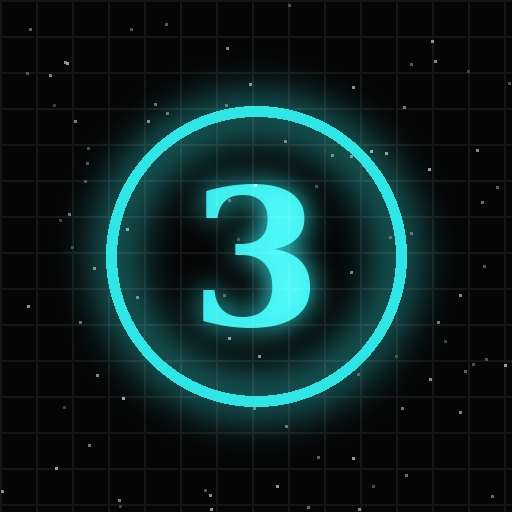
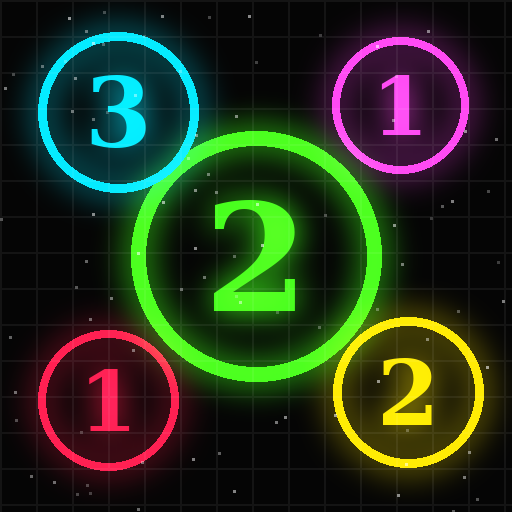
Add files via upload

diff --git a/index.html b/index.html
@@ -55,8 +55,8 @@
     font-size:17px; background:#000;
   }
   #right-area { text-align:right; display:flex; flex-direction:column; gap:8px; align-items:flex-end; }
-  #menu-btn { cursor:pointer; }
-  #menu-btn:active { color:#fff; }
+  #menu-btn, #music-btn { cursor:pointer; }
+  #menu-btn:active, #music-btn:active { color:#fff; }
 
   /* 발사대 (하단 중앙) */
   #launcher {
@@ -113,6 +113,7 @@
     <div id="launcher"><div class="q-ball" id="launcher-ball"></div></div>
     <div id="right-area">
       <div id="record-label">RECORD&nbsp;&nbsp;0</div>
+      <div id="music-btn">&#9834;&nbsp;OFF</div>
       <div id="menu-btn">BACK&nbsp;TO&nbsp;MENU</div>
     </div>
   </div>
@@ -121,11 +122,7 @@
 <div id="overlay">
   <h1 id="overlay-title">JUST&nbsp;POP&nbsp;IT</h1>
   <div class="stats" id="overlay-stats" style="display:none"></div>
-  <div class="hint" id="overlay-hint">
-    터치한 채로 방향을 잡고 손을 떼면 공이 발사됩니다.<br>
-    같은 색끼리 부딪히면 숫자가 줄고, 0이 되면 터집니다.<br>
-    어떤 공이든 아래 라인에 닿으면 게임 오버!
-  </div>
+  <div class="hint" id="overlay-hint" style="display:none"></div>
   <button id="start-btn">START</button>
 </div>
 
@@ -140,7 +137,7 @@ if('serviceWorker' in navigator){
 <script>
 (function(){
   // ───────── 기본 설정 ─────────
-  const COLORS = ['#2ee6e6','#ff4040','#ffd23b','#46ff7d','#c84bff','#ff8c3b','#ff4bd0','#5a9bff'];
+  const COLORS = ['#00e5ff','#39ff14','#ffe600','#ff9100','#ff1744','#ff3df0','#2979ff','#ececec'];
   const BALL_START_NUM = 3;
   const DECEL = 0.075;             // 선형 감속: 일정하게 미끄러지다 딱 멈춤 (당구 느낌)
   const STOP_SPEED = 0.05;
@@ -157,6 +154,7 @@ if('serviceWorker' in navigator){
   const launcherBallEl = document.getElementById('launcher-ball');
   const recordLabel = document.getElementById('record-label');
   const menuBtn = document.getElementById('menu-btn');
+  const musicBtn = document.getElementById('music-btn');
   const overlay = document.getElementById('overlay');
   const overlayTitle = document.getElementById('overlay-title');
   const overlayStats = document.getElementById('overlay-stats');
@@ -209,19 +207,115 @@ if('serviceWorker' in navigator){
 
   // ───────── 사운드 ─────────
   let audioCtx=null;
+  let sfxOn=true;      // ♪ 버튼으로 음악과 함께 꺼짐
+  const SFX_VOL=0.4;   // 효과음 전체 볼륨 (배경음악이 잘 들리도록 낮춤)
   function sound(freq, dur, type, vol){
+    if(!sfxOn) return;
     try{
       if(!audioCtx) audioCtx = new (window.AudioContext||window.webkitAudioContext)();
       const o=audioCtx.createOscillator(), g=audioCtx.createGain();
       o.type=type||'sine';
       o.frequency.setValueAtTime(freq, audioCtx.currentTime);
       o.frequency.exponentialRampToValueAtTime(Math.max(60,freq*0.4), audioCtx.currentTime+dur);
-      g.gain.setValueAtTime(vol||0.15, audioCtx.currentTime);
+      g.gain.setValueAtTime((vol||0.15)*SFX_VOL, audioCtx.currentTime);
       g.gain.exponentialRampToValueAtTime(0.001, audioCtx.currentTime+dur);
       o.connect(g); g.connect(audioCtx.destination);
       o.start(); o.stop(audioCtx.currentTime+dur+0.02);
     }catch(e){}
   }
+
+  // ───────── 배경음악: Gymnopédie No.1 (Erik Satie, 1888 — 저작권 소멸) 로파이 편곡 ─────────
+  // 3/4박. 베이스(1박) + 떠 있는 코드(2-3박)가 두 화음으로 교차하고, 그 위에 멜로디가 흐름.
+  const bgm=(function(){
+    let ac=null, master=null, timer=null, nextBar=0, barIdx=0, on=false;
+    const BPM=64, BEAT=60/BPM, BAR=3*BEAT;
+    // 반주: G화음 마디와 D화음 마디가 교대로 흔들림
+    const accA={bass:43, ch:[59,62,66]};   // G + (B D F#)
+    const accB={bass:38, ch:[57,61,66]};   // D + (A C# F#)
+    // 멜로디 (12마디 루프): [박자, 음, 길이(박)]
+    const REST=[];
+    const mel=[
+      REST, REST,
+      [[0,78,1],[1,81,1],[2,79,1]],
+      [[0,78,1],[1,73,1],[2,71,1]],
+      [[0,73,1],[1,74,1],[2,69,1]],
+      [[0,66,3]],
+      [[0,78,1],[1,81,1],[2,79,1]],
+      [[0,78,1],[1,73,1],[2,71,1]],
+      [[0,73,1],[1,74,1],[2,69,1]],
+      [[0,69,3]],
+      REST, REST
+    ];
+    const f=m=>440*Math.pow(2,(m-69)/12);
+    function ensure(){
+      if(ac) return;
+      ac=new (window.AudioContext||window.webkitAudioContext)();
+      const lp=ac.createBiquadFilter(); lp.type='lowpass'; lp.frequency.value=2000; lp.Q.value=0.4;
+      master=ac.createGain(); master.gain.value=0;
+      master.connect(lp); lp.connect(ac.destination);
+      // 빈티지 LP 노이즈 (자글자글)
+      const len=ac.sampleRate*2;
+      const buf=ac.createBuffer(1,len,ac.sampleRate);
+      const d=buf.getChannelData(0);
+      for(let i=0;i<len;i++){ d[i]=(Math.random()*2-1)*(Math.random()<0.012?0.5:0.018); }
+      const ns=ac.createBufferSource(); ns.buffer=buf; ns.loop=true;
+      const hp=ac.createBiquadFilter(); hp.type='highpass'; hp.frequency.value=1400;
+      const ng=ac.createGain(); ng.gain.value=0.055;
+      ns.connect(hp); hp.connect(ng); ng.connect(master);
+      ns.start();
+    }
+    function tone(midi,t,dur,type,vol,attack){
+      const o=ac.createOscillator(), g=ac.createGain();
+      o.type=type; o.frequency.value=f(midi);
+      g.gain.setValueAtTime(0,t);
+      g.gain.linearRampToValueAtTime(vol,t+(attack||0.02));
+      g.gain.exponentialRampToValueAtTime(0.0005,t+dur);
+      o.connect(g); g.connect(master);
+      o.start(t); o.stop(t+dur+0.05);
+    }
+    function scheduleBar(t,idx){
+      const acc=(idx%2===0)?accA:accB;
+      // 1박: 베이스
+      tone(acc.bass, t, BAR*0.95, 'sine', 0.10, 0.04);
+      // 2박: 코드 (살짝 스트럼처럼 어긋나게)
+      acc.ch.forEach((m,i)=>{
+        tone(m, t+BEAT+i*0.035, BEAT*1.9, 'sine', 0.045, 0.08);
+      });
+      // 멜로디
+      const bar=mel[idx%mel.length];
+      for(const [b,m,len] of bar){
+        tone(m, t+b*BEAT, len*BEAT*1.05, 'sine', 0.105, 0.05);
+        tone(m+12, t+b*BEAT, len*BEAT, 'sine', 0.018, 0.05);  // 옥타브 위 잔향 살짝
+      }
+    }
+    function loop(){
+      while(nextBar<ac.currentTime+0.8){
+        scheduleBar(nextBar,barIdx++);
+        nextBar+=BAR;
+      }
+    }
+    return {
+      toggle(){
+        ensure();
+        if(ac.state==='suspended') ac.resume();
+        on=!on;
+        if(on){
+          nextBar=ac.currentTime+0.1; barIdx=0;
+          master.gain.cancelScheduledValues(ac.currentTime);
+          master.gain.setValueAtTime(master.gain.value, ac.currentTime);
+          master.gain.linearRampToValueAtTime(0.9, ac.currentTime+1.5);
+          timer=setInterval(loop,200); loop();
+        }else{
+          master.gain.cancelScheduledValues(ac.currentTime);
+          master.gain.setValueAtTime(master.gain.value, ac.currentTime);
+          master.gain.linearRampToValueAtTime(0, ac.currentTime+0.6);
+          clearInterval(timer);
+        }
+        return on;
+      },
+      isOn(){ return on; }
+    };
+  })();
 
   // ───────── 게임 상태 ─────────
   let balls=[], particles=[];
@@ -386,6 +480,7 @@ if('serviceWorker' in navigator){
     }
     overlayStats.innerHTML='POPPED&nbsp;&nbsp;'+popped+'&nbsp;&nbsp;·&nbsp;&nbsp;LEVEL&nbsp;&nbsp;'+level
       +'<br><br><span style="letter-spacing:0.25em">TOP&nbsp;5</span><br>'+rows;
+    overlayHint.style.display='block';
     overlayHint.textContent='공이 아래 라인을 넘어갔습니다.';
     startBtn.textContent='RETRY';
     overlay.classList.remove('hidden');
@@ -632,12 +727,23 @@ if('serviceWorker' in navigator){
     overlayStats.style.display='none';
     resize();
     newGame();
+    if(!bgm.isOn()){
+      bgm.toggle();
+      sfxOn=true;
+      musicBtn.innerHTML='&#9834;&nbsp;ON';
+    }
+  });
+  musicBtn.addEventListener('click', ()=>{
+    const o=bgm.toggle();
+    sfxOn=o;   // 끄면 게임 소리 전체가 꺼짐
+    musicBtn.innerHTML = o ? '&#9834;&nbsp;ON' : '&#9834;&nbsp;OFF';
   });
   menuBtn.addEventListener('click', ()=>{
     running=false;
     overlayTitle.textContent='JUST POP IT';
     overlayStats.style.display='none';
-    overlayHint.innerHTML='터치한 채로 방향을 잡고 손을 떼면 공이 발사됩니다.<br>같은 색끼리 부딪히면 숫자가 줄고, 0이 되면 터집니다.<br>어떤 공이든 아래 라인에 닿으면 게임 오버!';
+    overlayHint.style.display='none';
+    overlayHint.innerHTML='';
     startBtn.textContent='START';
     overlay.classList.remove('hidden');
   });

diff --git a/sw.js b/sw.js
@@ -1,5 +1,5 @@
 // Just Pop It — 오프라인 캐시
-const CACHE = 'jpi-v4';
+const CACHE = 'jpi-v8';
 const ASSETS = [
   './',
   './index.html',